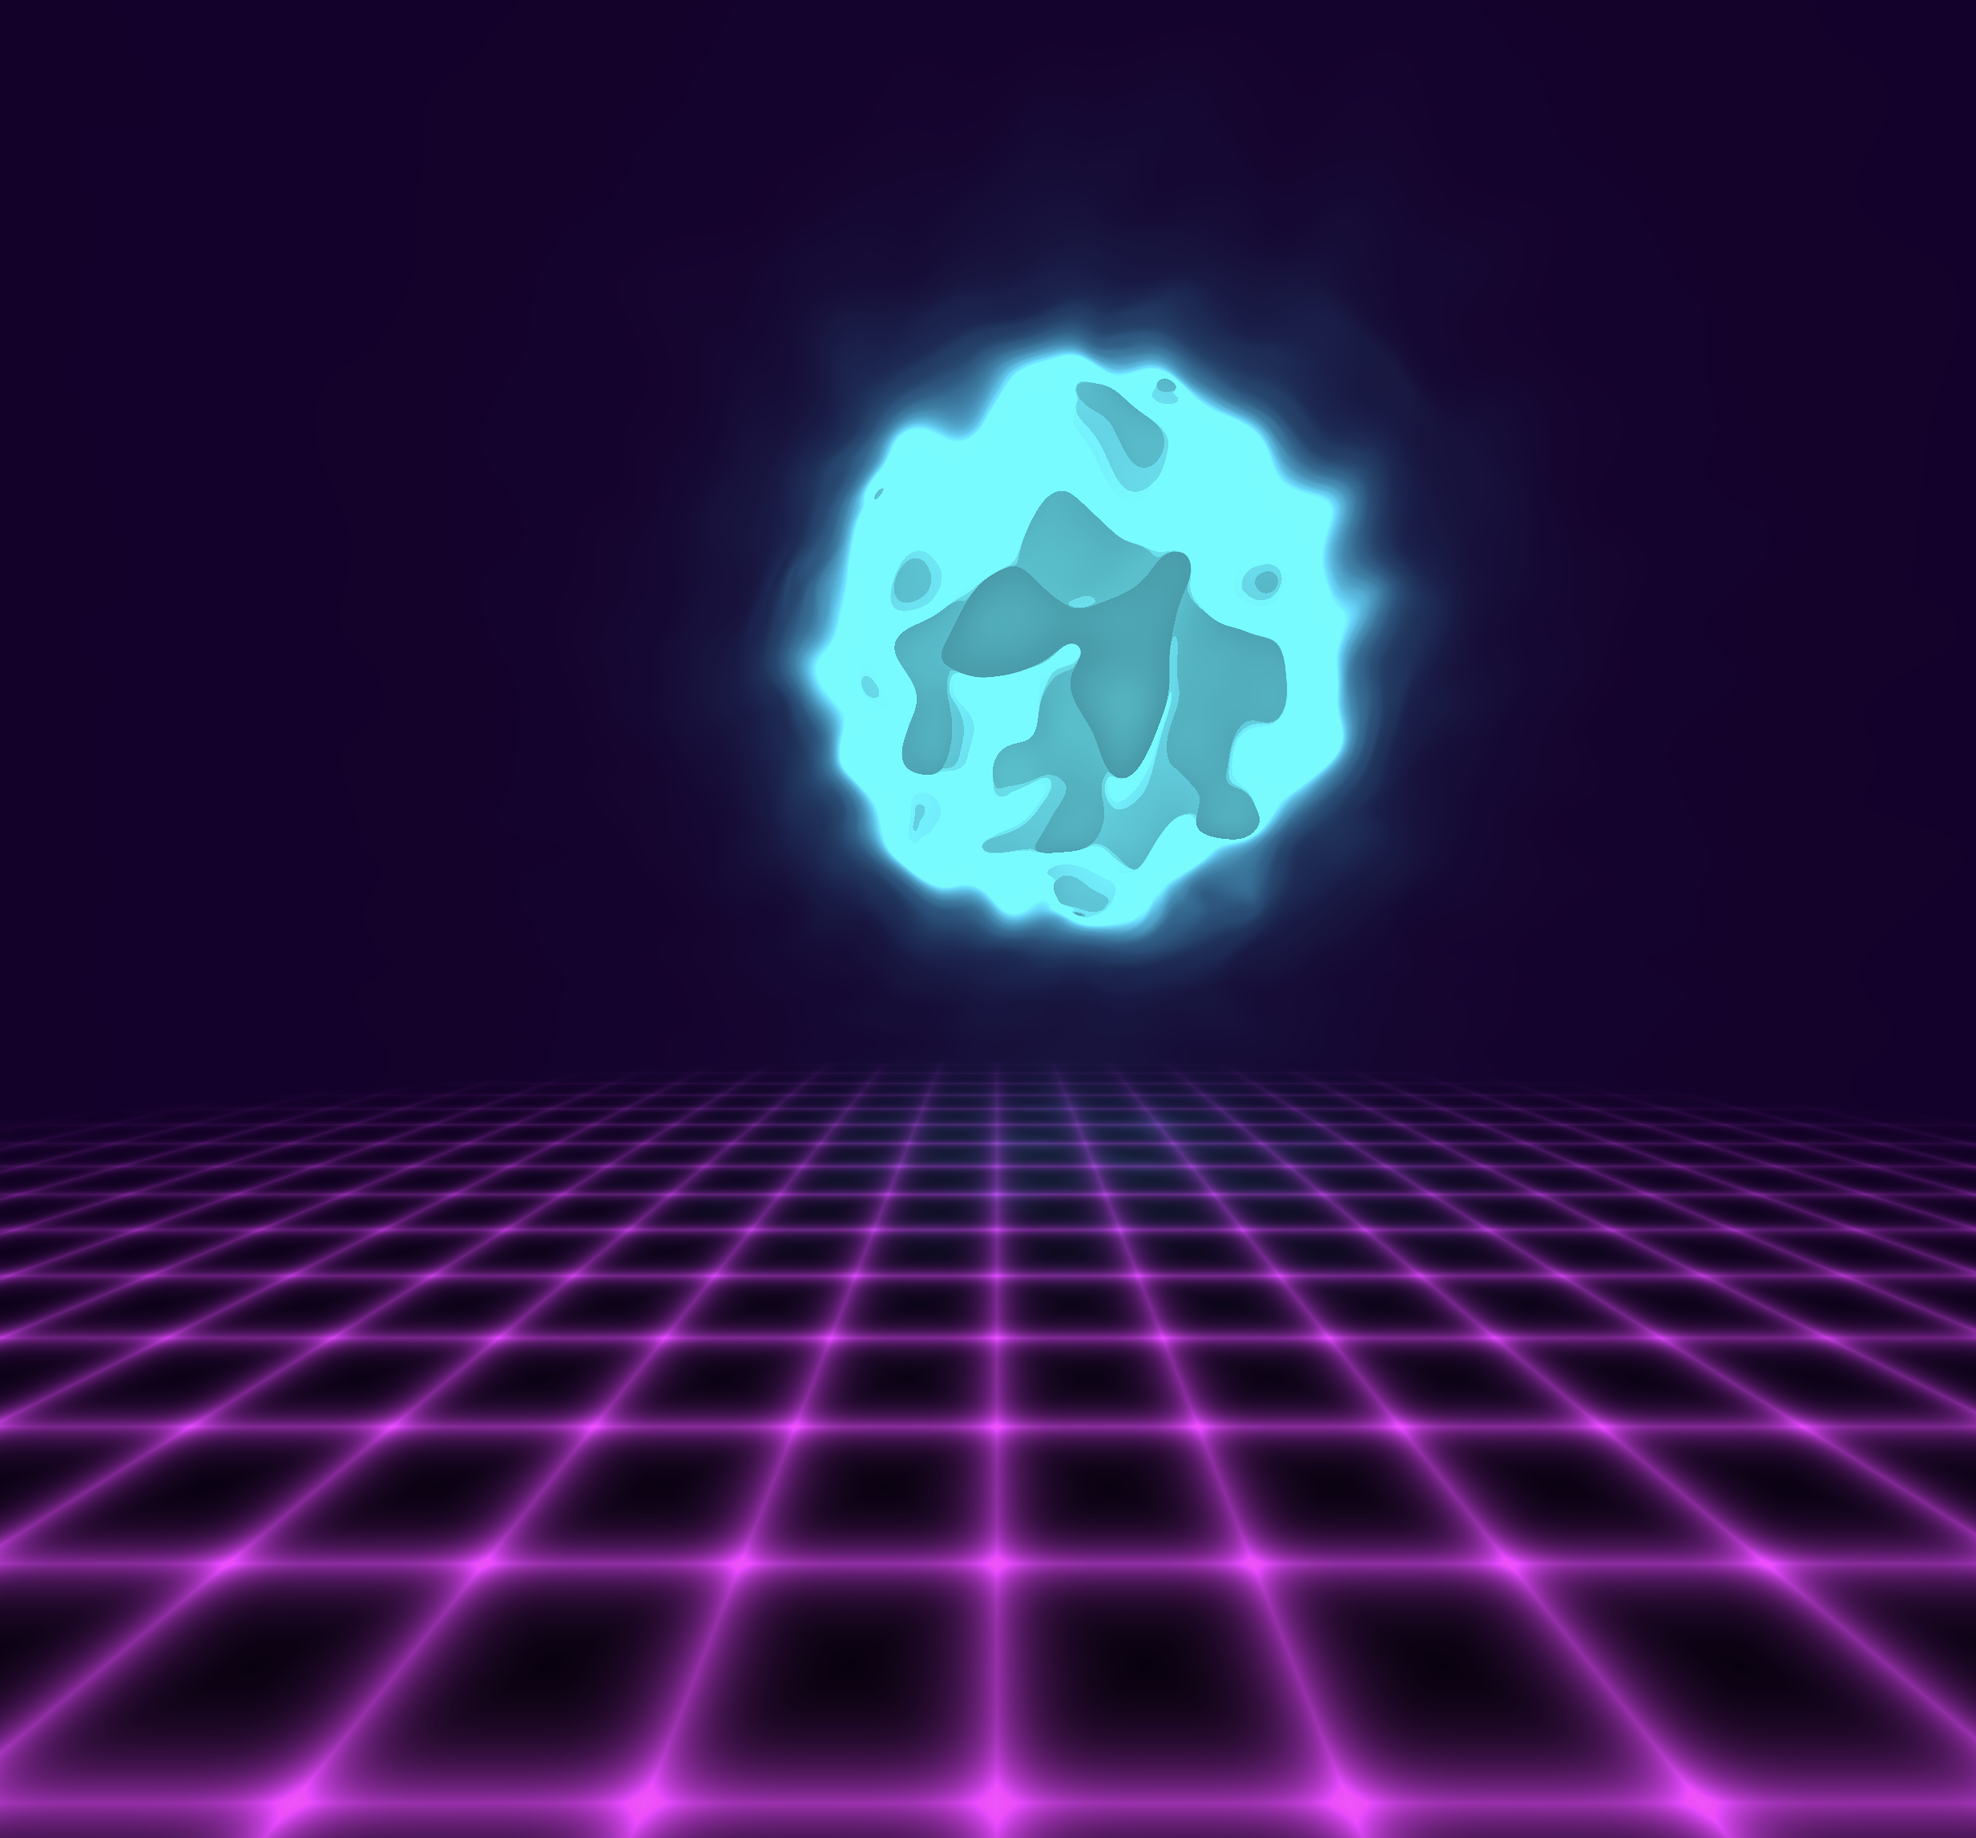
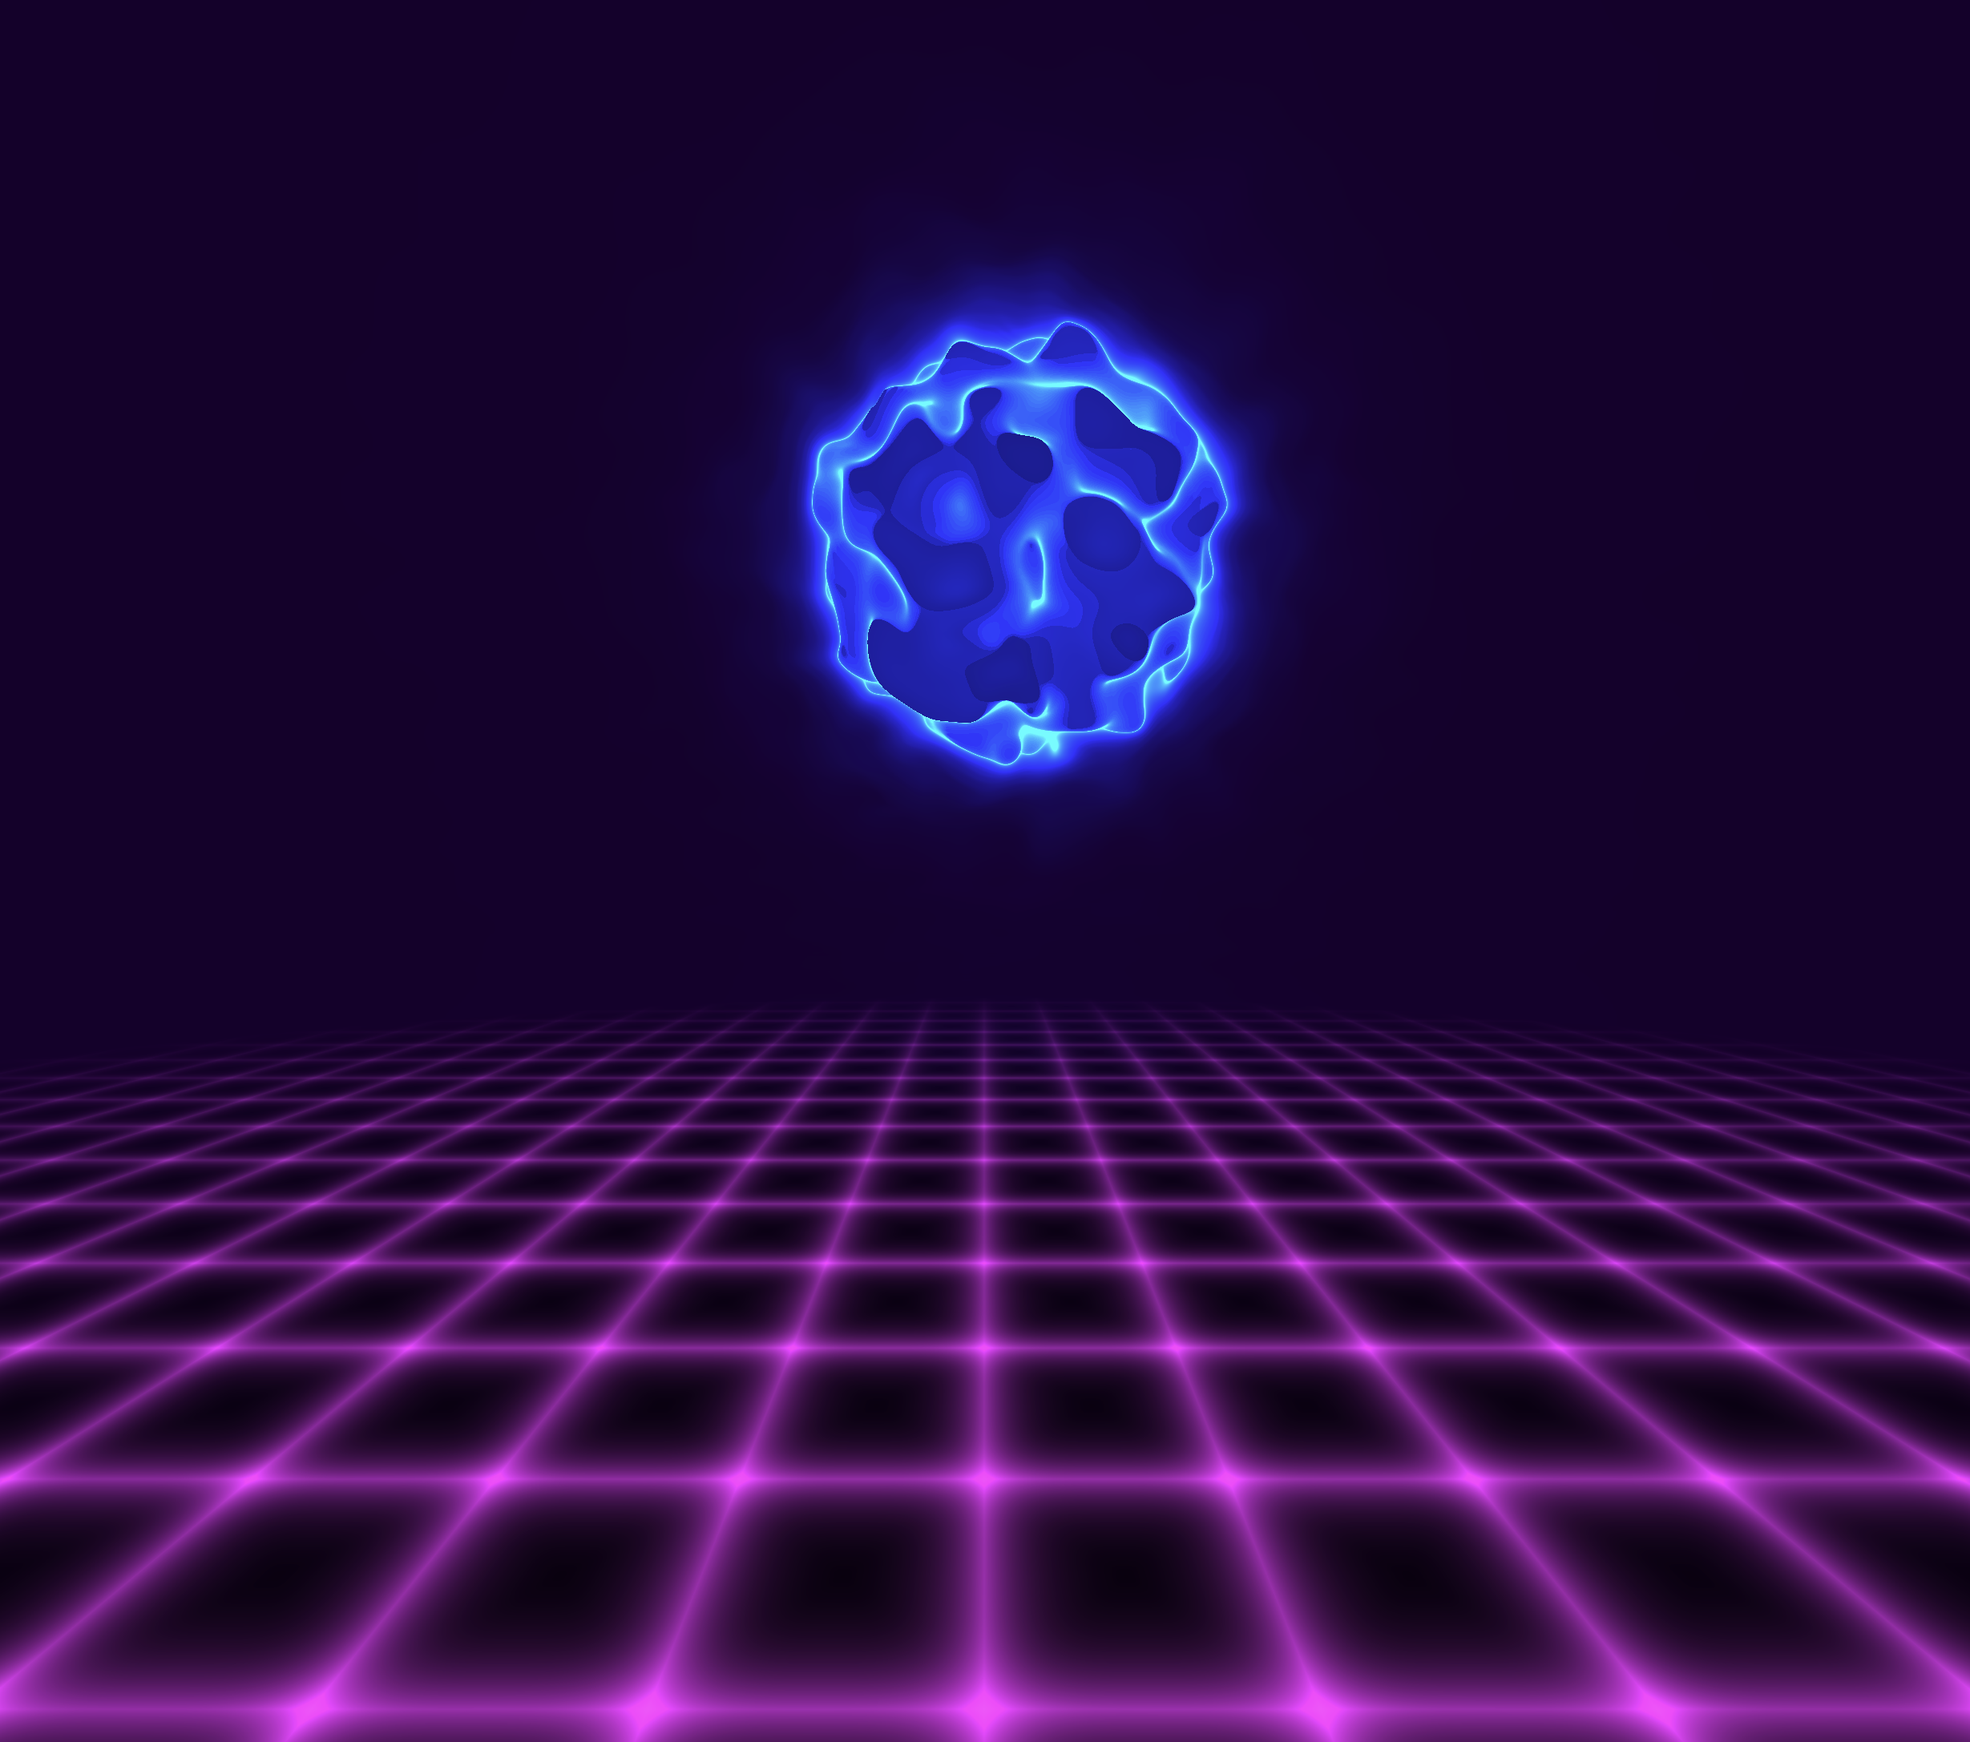
Slots

Changed region(s): [[0.0, 0.5856, 1.0, 1.0], [0.371, 0.1541, 0.7421, 0.5547]]

diff --git a/apps/typegpu-docs/src/content/examples/simple/vaporwave/index.ts b/apps/typegpu-docs/src/content/examples/simple/vaporwave/index.ts
@@ -1,9 +1,8 @@
-import tgpu from "typegpu";
+import tgpu, { type TgpuFn } from "typegpu";
 import * as d from "typegpu/data";
 import * as std from "typegpu/std";
 import { sdSphere, sdPlane } from "@typegpu/sdf";
 import { perlin3d } from "@typegpu/noise";
-import { numericLiteralToSnippet } from "../../../../../../../packages/typegpu/src/tgsl/generationHelpers";
 
 const canvas = document.querySelector("canvas") as HTMLCanvasElement;
 const context = canvas.getContext("webgpu") as GPUCanvasContext;
@@ -27,10 +26,12 @@ const MAX_DIST = 21;
 const SURF_DIST = 0.001;
 const GRID_SEP = 1.2;
 const GRID_TIGHTNESS = 7;
+
 const skyColor = d.vec4f(0.1, 0, 0.2, 1);
 const gridColor = d.vec3f(0.92, 0.21, 0.96);
 const gridInnerColor = d.vec3f(0, 0, 0);
 const ballCenter = d.vec3f(0, 6, 12);
+
 let ballColor = d.vec3f(0, 0.25, 1);
 let speedPerFrame = 11;
 
@@ -44,6 +45,7 @@ ballColorBuf.write(ballColor);
 const speedPerFrameBuf = root.createUniform(d.f32);
 speedPerFrameBuf.write(speedPerFrame);
 
+// this will be placed in slot
 const grid = tgpu.fn(
   [d.vec2f],
   d.vec3f,
@@ -101,6 +103,8 @@ const shapeUnion = tgpu.fn(
   dist: std.min(a.dist, b.dist),
 }));
 
+const floorPatternSlot = tgpu.slot(grid);
+
 // should return min distance to some world object
 const getSceneDist = tgpu.fn(
   [d.vec3f],
@@ -108,7 +112,7 @@ const getSceneDist = tgpu.fn(
 )((p) => {
   const floor = Ray({
     dist: sdPlane(p, d.vec3f(0, 1, 0), 1), // hardcoded plane location
-    color: grid(p.xz),
+    color: floorPatternSlot.$(p.xz),
   });
   const ball = getBall(p, time.$);
 
@@ -143,9 +147,6 @@ const rayMarch = tgpu.fn(
     if (scene.dist < SURF_DIST) {
       result.dist = dO;
       result.color = scene.color;
-      // if (ballDist.dist < SURF_DIST) {
-      //   bloom = ballColor;
-      // }
       break;
     }
   }
@@ -196,6 +197,7 @@ const perlinCache = perlin3d.staticCache({
 });
 
 const renderPipeline = root["~unstable"]
+  .with(floorPatternSlot, grid)
   .pipe(perlinCache.inject())
   .withVertex(vertexMain, {})
   .withFragment(fragmentMain, { format: presentationFormat })
